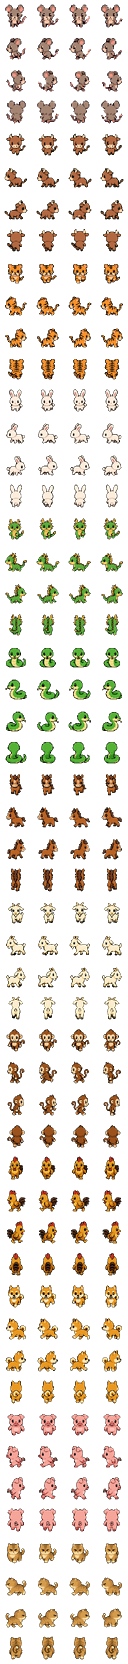
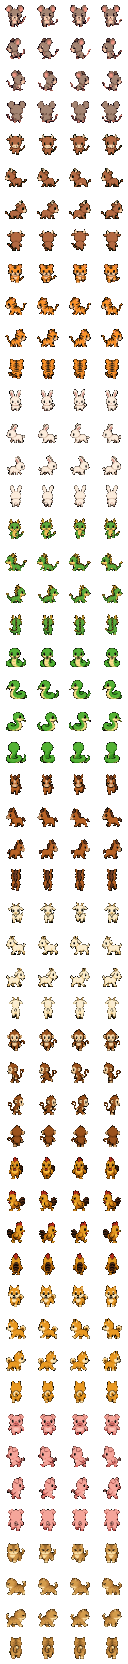
Fix pet sprite halo and oversized shadow bar
Two issues in the new zodiac pet sprites: a faint grey halo around
every pet's silhouette, and an oversized flat shadow bar under their
feet (reported as a stray "border line" while walking).

The halo came from downscaling with LANCZOS: the source frames are a
pure binary alpha mask (0 or 255, no soft edges), and LANCZOS's
negative lobes ring on hard edges — producing spurious low-alpha
pixels just outside the true silhouette that survived the alpha
cutoff and rendered as a smudgy grey fringe. Switched to BOX filtering
(no ringing on a binary mask) and raised the cutoff to a hard 0/255
split instead of a soft threshold — cleaner and crisper at this
sprite's small size besides.

The shadow bar's width was a leftover fixed offset (dsize - 8) sized
for the old 16px pet sprites; it never got rescaled when pets doubled
to 32px this session, so it rendered almost 3x wider than the animal
sitting on it. Made it proportional to the sprite size instead
(matching the ratio the player's own shadow already uses in render.js)
in both the world view (pets.js) and the personal-room view (decor.js).

diff --git a/game/js/pets.js b/game/js/pets.js
@@ -93,7 +93,11 @@ export function drawPet(ctx, ent) {
   const col = ent.pet.moving ? (Math.floor(ent.pet.animTime * 7) % 4) : 0;
   const size = PET_FRAME, dsize = size * PET_DRAW_SCALE;
   const dx = Math.round(ent.pet.x - dsize / 2), dy = Math.round(ent.pet.y - dsize + 6);
+  // เงาอิงสัดส่วนตัวสัตว์จริง (แบบเดียวกับเงาผู้เล่นใน render.js ที่ใช้ frameW*0.62) — ก่อนหน้านี้
+  // เป็นความกว้างคงที่ dsize-8 ที่ตั้งไว้ตอนสไปรท์ยังเล็ก (16px) พอสไปรท์ใหญ่ขึ้นเป็น 32px
+  // ความกว้างเดิมเลยกลายเป็นแท่งเทาใหญ่เกินตัวสัตว์จนดูเหมือนเส้นขอบแปลก ๆ ใต้เท้า
+  const shadowW = Math.round(dsize * 0.5), shadowH = Math.max(2, Math.round(dsize * 0.06));
   ctx.fillStyle = "rgba(0,0,0,0.22)";
-  ctx.fillRect(dx + 4, Math.round(ent.pet.y) - 2, dsize - 8, 4);
+  ctx.fillRect(Math.round(ent.pet.x - shadowW / 2), Math.round(ent.pet.y) - 2, shadowW, shadowH);
   ctx.drawImage(img, col * size, row * size, size, size, dx, dy, dsize, dsize);
 }

diff --git a/game/js/decor.js b/game/js/decor.js
@@ -484,8 +484,9 @@ function drawRoomPet(world, c) {
   const col = b.moving ? Math.floor(b.animTime * 7) % 4 : 0;
   const size = PET_FRAME;
   const dx = Math.round(b.x - size / 2) * S, dy = Math.round(b.y - size + 3) * S;
+  const shadowW = Math.round(size * 0.5), shadowH = Math.max(2, Math.round(size * 0.06));
   c.fillStyle = "rgba(0,0,0,0.22)";
-  c.fillRect(Math.round(b.x - 6) * S, Math.round(b.y - 1) * S, 12 * S, 2 * S);
+  c.fillRect(Math.round(b.x - shadowW / 2) * S, Math.round(b.y - 1) * S, shadowW * S, shadowH * S);
   c.drawImage(img, col * size, row * size, size, size, dx, dy, size * S, size * S);
   const now = performance.now() / 1000;
   if (now < b.trickUntil) {

diff --git a/game/assets/build_pets.py b/game/assets/build_pets.py
@@ -22,20 +22,23 @@ PETS = ["rat", "ox", "tiger", "rabbit", "dragon", "snake", "horse",
 
 
 def resize_rgba_premultiplied(im, new_w, new_h):
-    """LANCZOS บน RGBA ตรง ๆ ทำให้ขอบมี noise เพราะพิกเซลโปร่งใส (RGB มักเป็น (0,0,0)) ไปปน
-    สีตอน resize — premultiply ด้วยอัลฟาก่อน resize แล้วหารกลับ ถึงจะได้ขอบสะอาด"""
+    """ต้นฉบับ 13 สัตว์นี้เป็น mask ขอบคมล้วน (alpha มีแค่ 0 หรือ 255 ไม่มีไล่เฉด) — LANCZOS มี
+    negative lobe ที่ทำให้ alpha เกิด ringing (โผล่ค่า alpha ต่ำ ๆ นอกขอบตัวจริง) พอผ่าน
+    premultiply/หารกลับ กลายเป็นพิกเซลเทา ๆ เป็นเส้นขอบเรือนราง ๆ รอบตัวสัตว์ที่ไม่ควรมี —
+    ใช้ BOX แทน (ไม่มี negative lobe เลยไม่ ring) + ตัด cutoff ให้สูงขึ้นและปัดเป็นทึบสนิท
+    (ไม่ใช่ alpha ไล่เฉด) ได้ขอบคมสมกับสไตล์พิกเซลอาร์ตที่เหลือของเกม"""
     r, g, b, a = im.split()
     rgb = Image.merge("RGB", (r, g, b))
     black = Image.new("RGB", im.size, (0, 0, 0))
     premult = Image.composite(rgb, black, a)
-    premult_resized = premult.resize((new_w, new_h), Image.LANCZOS)
-    a_resized = a.resize((new_w, new_h), Image.LANCZOS)
+    premult_resized = premult.resize((new_w, new_h), Image.BOX)
+    a_resized = a.resize((new_w, new_h), Image.BOX)
     pr, pg, pb = premult_resized.split()
     a_arr = a_resized.load()
     pr_l, pg_l, pb_l = pr.load(), pg.load(), pb.load()
     out = Image.new("RGBA", (new_w, new_h))
     out_px = out.load()
-    ALPHA_CUTOFF = 40
+    ALPHA_CUTOFF = 128
     for y in range(new_h):
         for x in range(new_w):
             av = a_arr[x, y]
@@ -44,7 +47,7 @@ def resize_rgba_premultiplied(im, new_w, new_h):
             else:
                 k = 255 / av
                 out_px[x, y] = (min(255, round(pr_l[x, y] * k)), min(255, round(pg_l[x, y] * k)),
-                                 min(255, round(pb_l[x, y] * k)), av)
+                                 min(255, round(pb_l[x, y] * k)), 255)
     return out
 
 